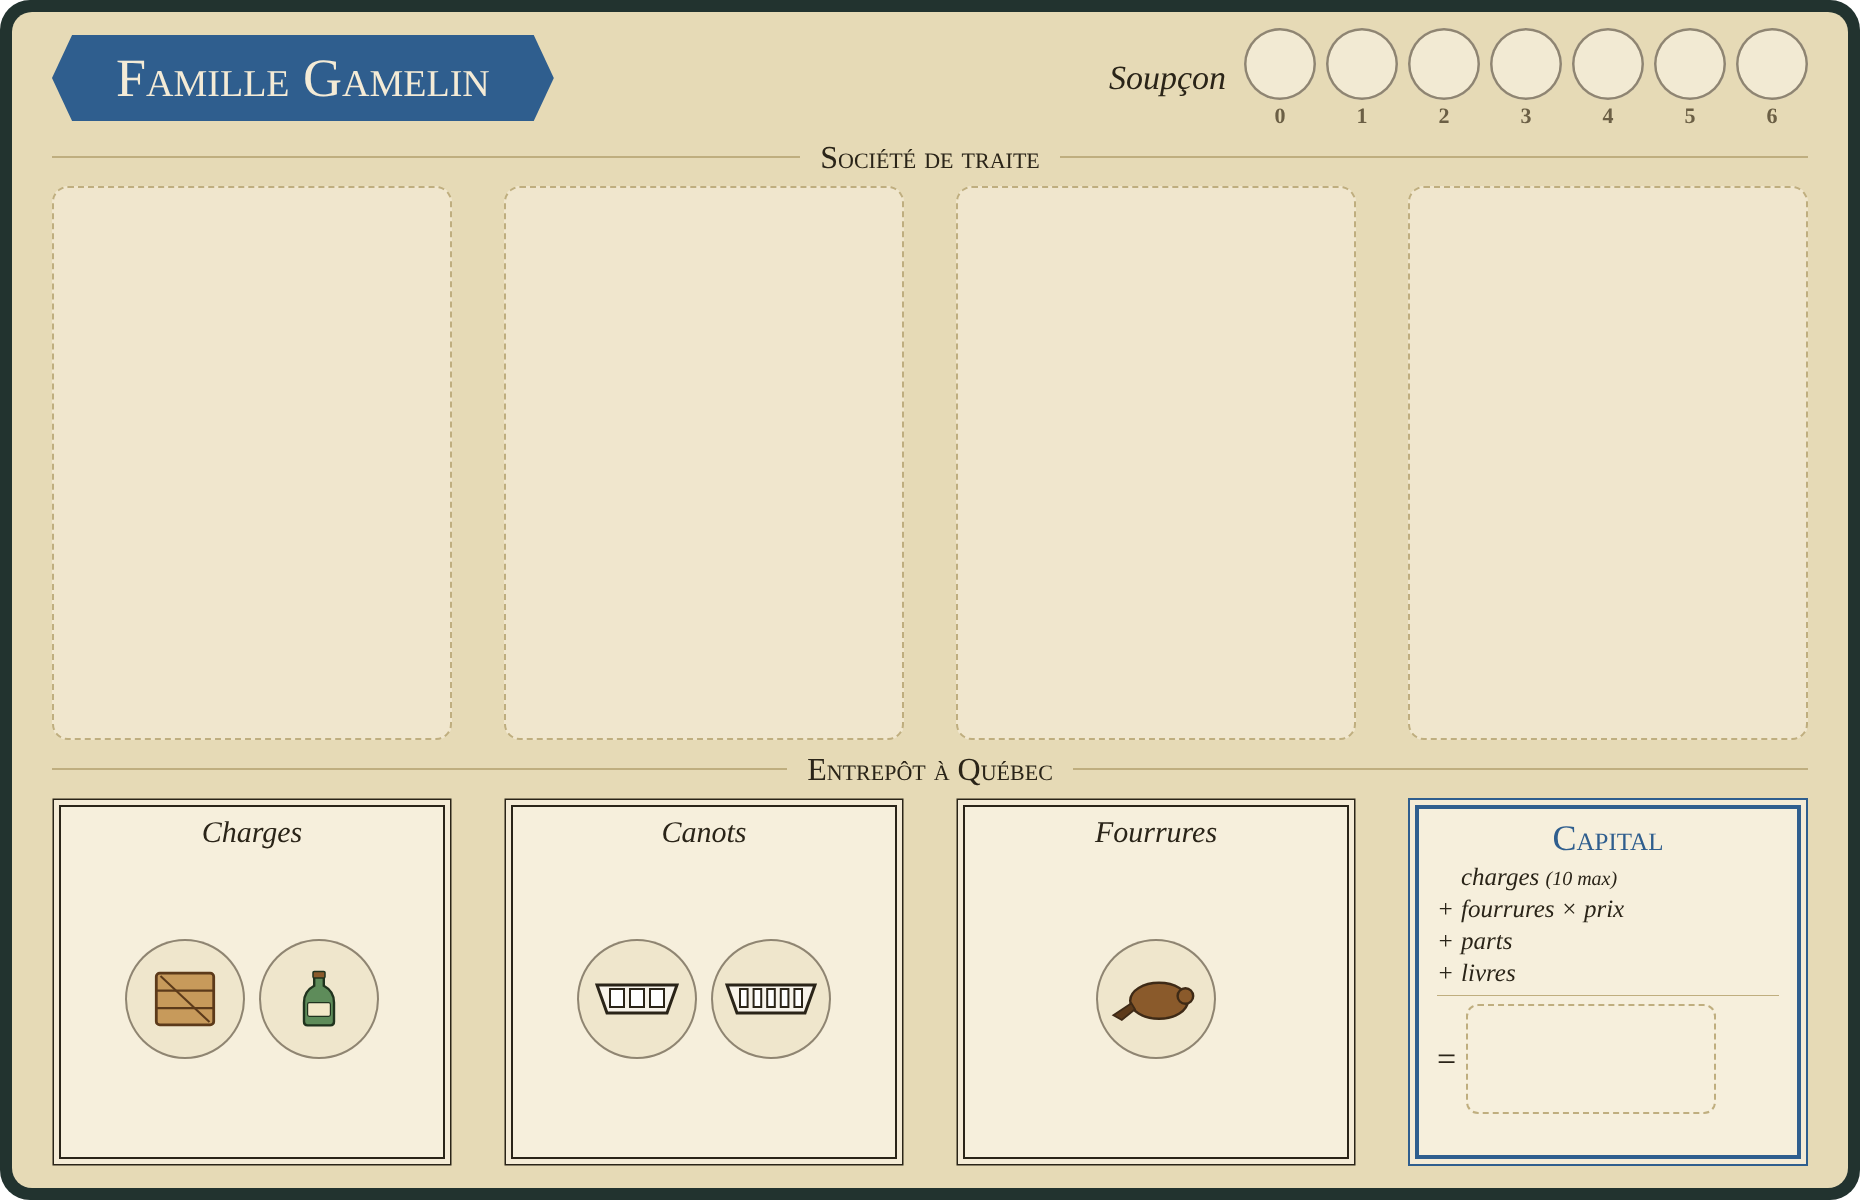
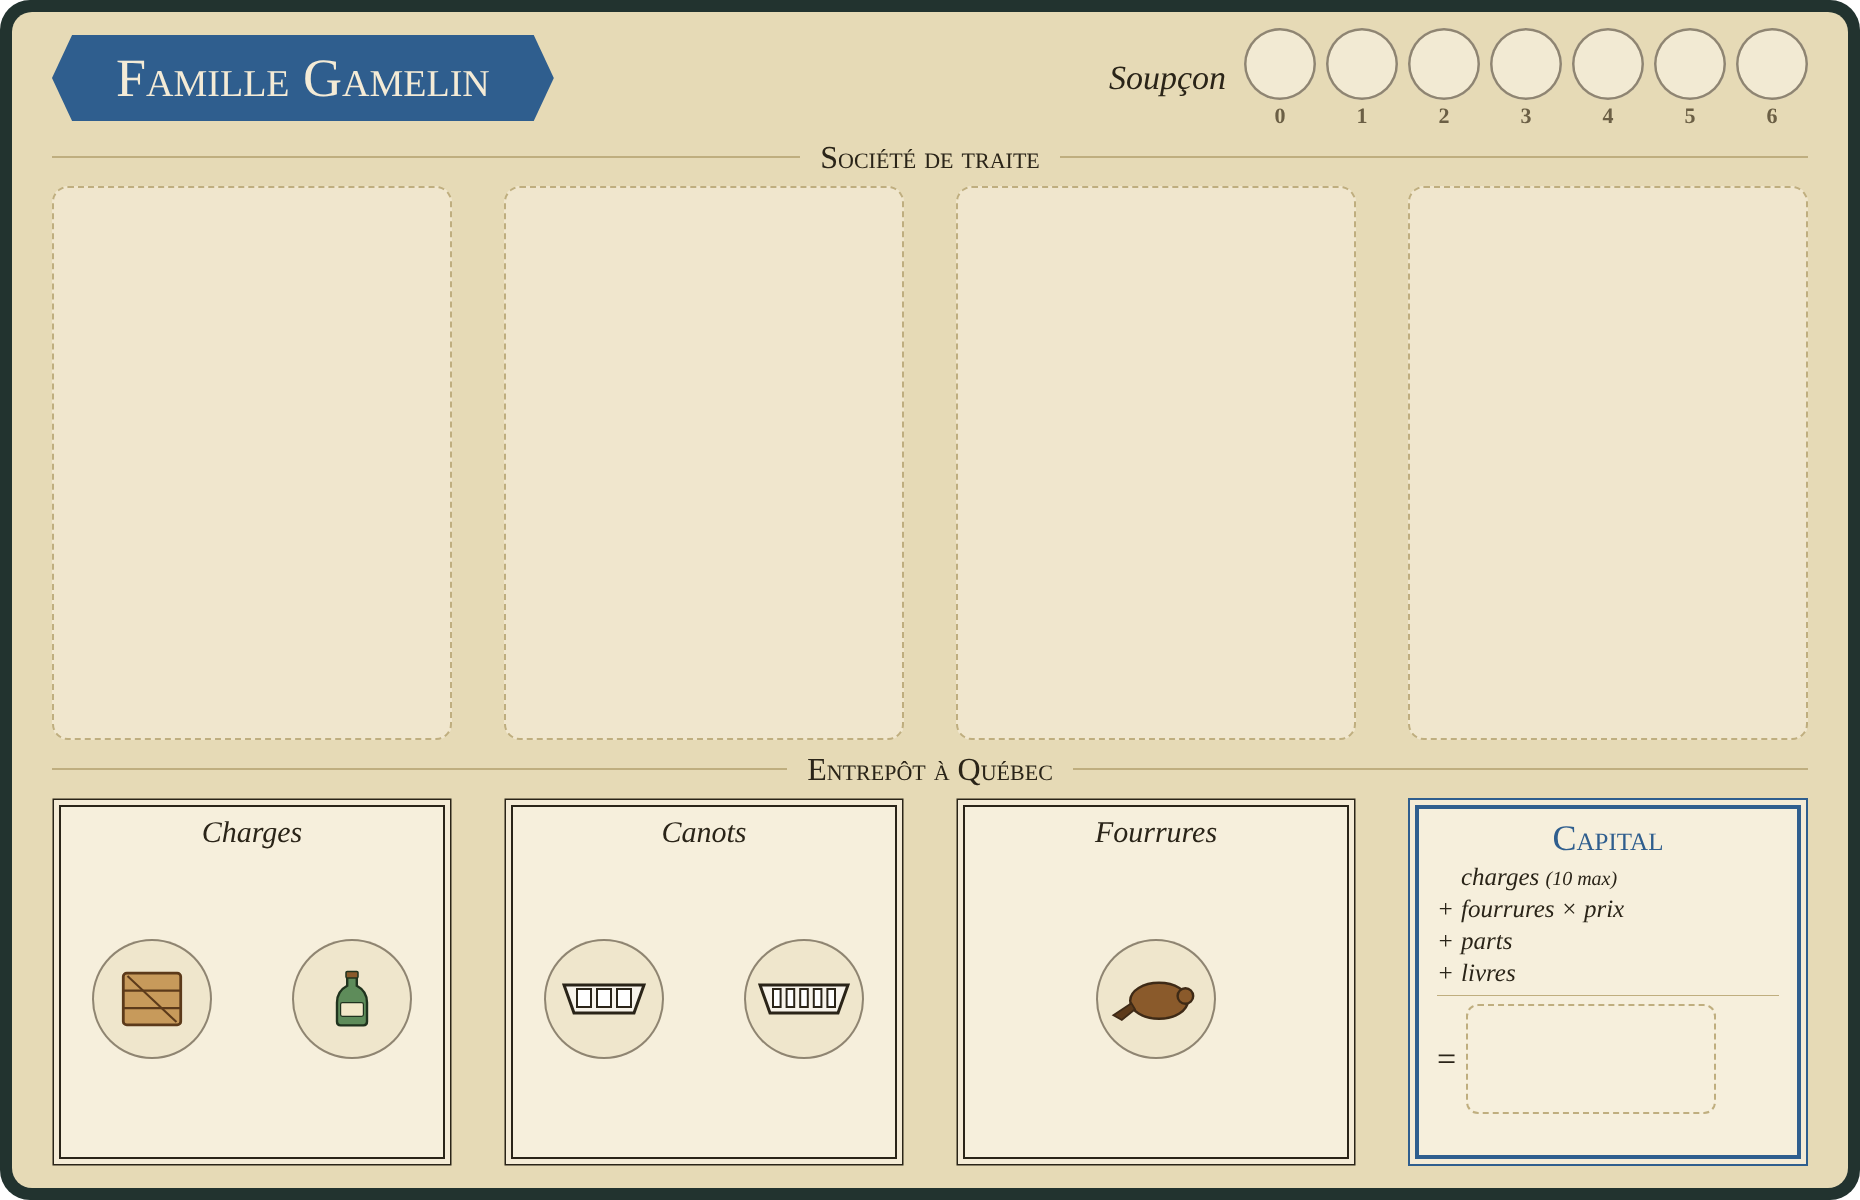
Plateau du joueur v3.1 : sacs d'entrepôt mis à jour à chaque entrée / sortie ; capital recalculé par le bouton « Calculer le capital » (ou clic droit sur le compteur) et affiché par le compteur TTS dans la case « = » ; plateaux, compteurs et sacs verrouillés ; sacs Charges et Canots plus espacés
Claude-Session: https://claude.ai/code/session_01G5suCBVZJhugB2Lj7SNzBB

Changed region(s): [[0.2806, 0.7708, 0.4677, 0.8942], [0.0624, 0.7708, 0.1247, 0.8942], [0.1559, 0.7708, 0.2183, 0.8942]]

diff --git a/src/plateau_joueur_v3.py b/src/plateau_joueur_v3.py
@@ -66,8 +66,20 @@ for i,c in enumerate(COLS):
         b['CustomMesh']=dict(tpl['CustomMesh'],MeshURL=GH+f'sac_pm_{SLUG[k]}.obj',DiffuseURL=GH+f'pm_{SLUG[k]}.png?v42',TypeIndex=6)
         b['Transform'].update(posX=X,posZ=Z,posY=2.0,scaleX=dia,scaleY=dia,scaleZ=dia)
         b['Locked']=True; objs.append(b)
-# 5. anciens compteurs de capital retirés (le capital s'affiche sur le plateau)
-objs[:]=[q for q in objs if not (q.get('Name')=='Counter' and (q.get('Nickname') or '').startswith('Capital circulant'))]
+# 5. compteurs de capital placés dans la case « = » ; plateaux, compteurs et sacs verrouillés
+for c in COLS:
+    m=mats[c]; cx,cz=m['Transform']['posX'],m['Transform']['posZ']
+    X,Z=world(cx,cz,geo['ctr'][0][0],geo['ctr'][0][1])
+    q=[o for o in objs if o.get('Nickname')=='Capital circulant '+c][0]
+    q['Description']='Capital circulant : charges (10 au plus) + tuiles de fourrure x prix du castor + parts + palier de la piste Livres. Calculé automatiquement ; clic droit > Recalculer le capital.'
+    q['Transform'].update(posX=X,posZ=Z)
+    q['GMNotes']=json.dumps({'w':1.9,'x':X,'z':Z,'h':0.3,'y3':True,'lock':True},ensure_ascii=False,separators=(', ',': '))
+for q in objs:
+    if q['Name'] in ('Bag','Custom_Model_Bag','Custom_Model_Infinite_Bag','Infinite_Bag','Counter') or (q.get('Nickname') or '').startswith('Plateau du joueur'):
+        q['Locked']=True
+        try: n=json.loads(q.get('GMNotes') or '')
+        except Exception: n=None
+        if isinstance(n,dict) and 'x' in n: n['lock']=True; q['GMNotes']=json.dumps(n,ensure_ascii=False,separators=(', ',': '))
 # 6. cartes au format 63,5 x 88
 def cards(os_):
     for q in os_:
@@ -82,45 +94,44 @@ cards(objs)
 # 7. script : compteurs des mini-sacs + capital circulant
 t=[q for q in objs if q.get('Nickname')=='Table du castor'][0]['Transform']
 im2=Image.open(R+'img/v18/table_v17.png'); TW=2*t['scaleX']; L=t['posX']-TW/2; k=im2.size[0]/TW
-cap_x,cap_z=local(geo['ctr'][0][0], geo['ctr'][0][1])
-sx=mats['rouge']['Transform']['scaleX']
 LUA=f'''
 
 -- Capital circulant (livret) : charges (10 au plus) + tuiles de fourrure x prix du castor + parts + palier de la piste Livres.
--- Ce qui est en expédition ne compte pas. Calcul automatique, affiché dans la case « = » du plateau du joueur.
+-- Ce qui est en expédition ne compte pas. Les sacs d'entrepôt affichent leur contenu à chaque entrée / sortie ;
+-- le capital se recalcule avec le bouton « Calculer le capital » (haut droite de l'écran) ou clic droit sur le compteur.
 local LIV0, PRIX4, PAS = {round(L+1096.9/k,3)}, {round(L+4019.6/k,3)}, {round(108.6/k,4)}
-local CAPPOS, MATSC = {{{cap_x}, 0.15, {cap_z}}}, {sx}
+local NOMS = {{["marchandises"] = "Marchandises", ["eau-de-vie"] = "Eau-de-vie", ["moyen canot"] = "Moyens canots", ["grand canot"] = "Grands canots", ["castor"] = "Fourrures"}}
 local function palier(n) if n >= 25 then return 15 elseif n >= 20 then return 14 elseif n >= 15 then return 12 elseif n >= 10 then return 9 elseif n >= 5 then return 5 end return 0 end
 local function arrondi(v) return math.floor(v + 0.5) end
-local function etiquette(o, txt, pos, taille, sc)
-  local ok, bs = pcall(function() return o.getButtons() end)
-  if ok and bs and #bs > 0 then o.editButton({{index = 0, label = txt}}) return end
-  o.createButton({{click_function = "rien", function_owner = Global, label = txt, position = pos, rotation = {{0, 0, 0}},
-    scale = {{sc, sc, sc}}, width = taille * 1.3, height = taille * 1.1, font_size = taille,
-    color = {{0.16, 0.14, 0.09}}, font_color = {{0.96, 0.92, 0.84}}, hover_color = {{0.16, 0.14, 0.09}}, press_color = {{0.16, 0.14, 0.09}}}})
-end
 function rien() end
+local function sac(o) local g = o.getGMNotes() or "" if g:find('"pm"', 1, true) then local n = notes(o) if n and n.pm then return n end end end
+local function afficheSac(b, n)
+  local q = b.getQuantity()
+  b.setName("Entrepôt · " .. (NOMS[n.k] or n.k) .. " (" .. n.pm .. ") : " .. q)
+  local ok, bs = pcall(function() return b.getButtons() end)
+  if ok and bs and #bs > 0 then b.editButton({{index = 0, label = tostring(q)}}) return q end
+  local sc = 1 / b.getScale().x
+  b.createButton({{click_function = "rien", function_owner = Global, label = tostring(q), position = {{0, 0.25, -0.42}},
+    scale = {{sc, sc, sc}}, width = 340, height = 300, font_size = 260,
+    color = {{0.16, 0.14, 0.09}}, font_color = {{0.96, 0.92, 0.84}}, hover_color = {{0.16, 0.14, 0.09}}, press_color = {{0.16, 0.14, 0.09}}}})
+  return q
+end
 local function capital()
-  local sacs, mats, parts, cartes, livres, prix = {{}}, {{}}, {{}}, {{}}, {{}}, nil
+  local sacs, cpt, parts, cartes, livres, prix = {{}}, {{}}, {{}}, {{}}, {{}}, nil
   for _, o in ipairs(getObjects()) do
-    local nm, g = o.getName(), o.getGMNotes() or ""
-    if g:find('"pm"', 1, true) or g:find('"cap"', 1, true) then
-      local n = notes(o)
-      if n and n.pm then sacs[n.pm] = sacs[n.pm] or {{}}; sacs[n.pm][n.k] = o elseif n and n.cap then mats[n.cap] = o end
-    end
-    if nm:find("^Part ") then table.insert(parts, o)
+    local nm = o.getName()
+    local n = sac(o)
+    if n then sacs[n.pm] = sacs[n.pm] or {{}}; sacs[n.pm][n.k] = afficheSac(o, n)
+    elseif nm:find("^Capital circulant ") then cpt[nm:sub(19)] = o
+    elseif nm:find("^Part ") then table.insert(parts, o)
     elseif nm:find("^Carte de navire") or nm:find("^Carte de distillerie") then table.insert(cartes, o)
     elseif nm:find("^Livres ") then livres[nm:sub(8)] = o
     elseif nm == "Prix du castor" then prix = o end
   end
   local p = 0
   if prix then p = math.max(1, math.min(8, 4 + arrondi((prix.getPosition().x - PRIX4 * F) / (PAS * F)))) end
-  for c, mat in pairs(mats) do
-    local s, q = sacs[c] or {{}}, {{}}
-    for kind, b in pairs(s) do
-      q[kind] = b.getQuantity()
-      etiquette(b, tostring(q[kind]), {{0, 0.25, -0.42}}, 260, 1 / b.getScale().x)
-    end
+  for c, ct in pairs(cpt) do
+    local q = sacs[c] or {{}}
     local charges = math.min(10, (q["marchandises"] or 0) + (q["eau-de-vie"] or 0))
     local np = 0
     for _, pt in ipairs(parts) do
@@ -134,12 +145,23 @@ local function capital()
     end
     local nl = 0
     if livres[c] then nl = math.max(0, arrondi((livres[c].getPosition().x - LIV0 * F) / (PAS * F))) end
-    local total = charges + (q["castor"] or 0) * p + np + palier(nl)
-    etiquette(mat, tostring(total), CAPPOS, 420, 1 / MATSC)
+    pcall(function() ct.Counter.setValue(charges + (q["castor"] or 0) * p + np + palier(nl)) end)
   end
 end
-Wait.time(function() pcall(capital) end, 1.5, -1)
+function majCapital() pcall(capital) end
+function boutonCapital() majCapital() end
+local function majSac(c) Wait.frames(function() if c and not c.isDestroyed() then local n = sac(c) if n then afficheSac(c, n) end end end, 1) end
+local ancienSortie = onObjectLeaveContainer
+function onObjectLeaveContainer(c, o) if ancienSortie then ancienSortie(c, o) end majSac(c) end
+function onObjectEnterContainer(c, o) majSac(c) end
+local function menus()
+  for _, o in ipairs(getObjects()) do
+    if o.getName():find("^Capital circulant ") then pcall(function() o.addContextMenuItem("Recalculer le capital", function() majCapital() end) end) end
+  end
+end
+Wait.time(function() menus(); majCapital() end, 4)
 '''
 d['LuaScript']=d['LuaScript'].rstrip('\n')+LUA
+d['XmlUI']='<Button id="capital" onClick="boutonCapital" rectAlignment="UpperRight" offsetXY="-20 -70" width="200" height="40" fontSize="18" color="#2A2418" textColor="#F4EBD6">Calculer le capital</Button>'
 json.dump(d,open(P,'w'),ensure_ascii=False,indent=2)
-print('ok',len(objs),'LIV0',round(L+1096.9/k,3),'PRIX4',round(L+4019.6/k,3),'PAS',round(108.6/k,4),'cap',cap_x,cap_z)
+print('ok',len(objs),'LIV0',round(L+1096.9/k,3),'PRIX4',round(L+4019.6/k,3),'PAS',round(108.6/k,4))

diff --git a/src/pmat_v3_rendu.py b/src/pmat_v3_rendu.py
@@ -14,7 +14,7 @@ def bag(icon,lab,show):
 def html(name,col,dark,show):
     circ=''.join(f"<div style='display:flex;flex-direction:column;align-items:center;gap:3px'><div style='width:72px;height:72px;border-radius:50%;background:#F2EAD3;box-shadow:inset 0 0 0 2.5px #8F8572'></div><div style=\"font:700 22px 'Alegreya Sans';color:#6B5F45\">{i}</div></div>" for i in range(7))
     slot=f"<div style='width:{CW}px;height:{CH}px;box-sizing:border-box;border:2px dashed #BFAE7F;border-radius:16px;background:rgba(246,239,220,.6)'></div>"
-    def box(t,inner): return f"<div style='width:{CW-14}px;margin:0 7px;box-sizing:border-box;background:#F6EFDC;border:2px solid #2A2418;box-shadow:0 0 0 5px #F4EBD6,0 0 0 6.5px #2A2418;display:flex;flex-direction:column;align-items:center;padding:8px 6px'><div style=\"font:italic 30px 'IM Fell English';color:#2A2418\">{t}</div><div style='flex:1;display:flex;align-items:center;justify-content:center;gap:14px'>{inner}</div></div>"
+    def box(t,inner): return f"<div style='width:{CW-14}px;margin:0 7px;box-sizing:border-box;background:#F6EFDC;border:2px solid #2A2418;box-shadow:0 0 0 5px #F4EBD6,0 0 0 6.5px #2A2418;display:flex;flex-direction:column;align-items:center;padding:8px 6px'><div style=\"font:italic 30px 'IM Fell English';color:#2A2418\">{t}</div><div style='flex:1;display:flex;align-items:center;justify-content:center;gap:80px'>{inner}</div></div>"
     title=lambda t:f"<div style='display:flex;align-items:center;gap:20px;height:34px'><div style='flex:1;height:1.5px;background:#BFAE7F'></div><div style=\"font:400 32px 'IM Fell English';font-variant:small-caps;color:#2A2418\">{t}</div><div style='flex:1;height:1.5px;background:#BFAE7F'></div></div>"
     return f"""<html><head><meta charset='utf-8'><link href='https://fonts.googleapis.com/css2?family=Alegreya+Sans:wght@400;700&family=IM+Fell+English:ital@0;1&display=block' rel='stylesheet'></head>
 <body style='margin:0'><div style='width:1860px;height:1200px;box-sizing:border-box;background:#22332F;border-radius:30px;padding:12px'>
